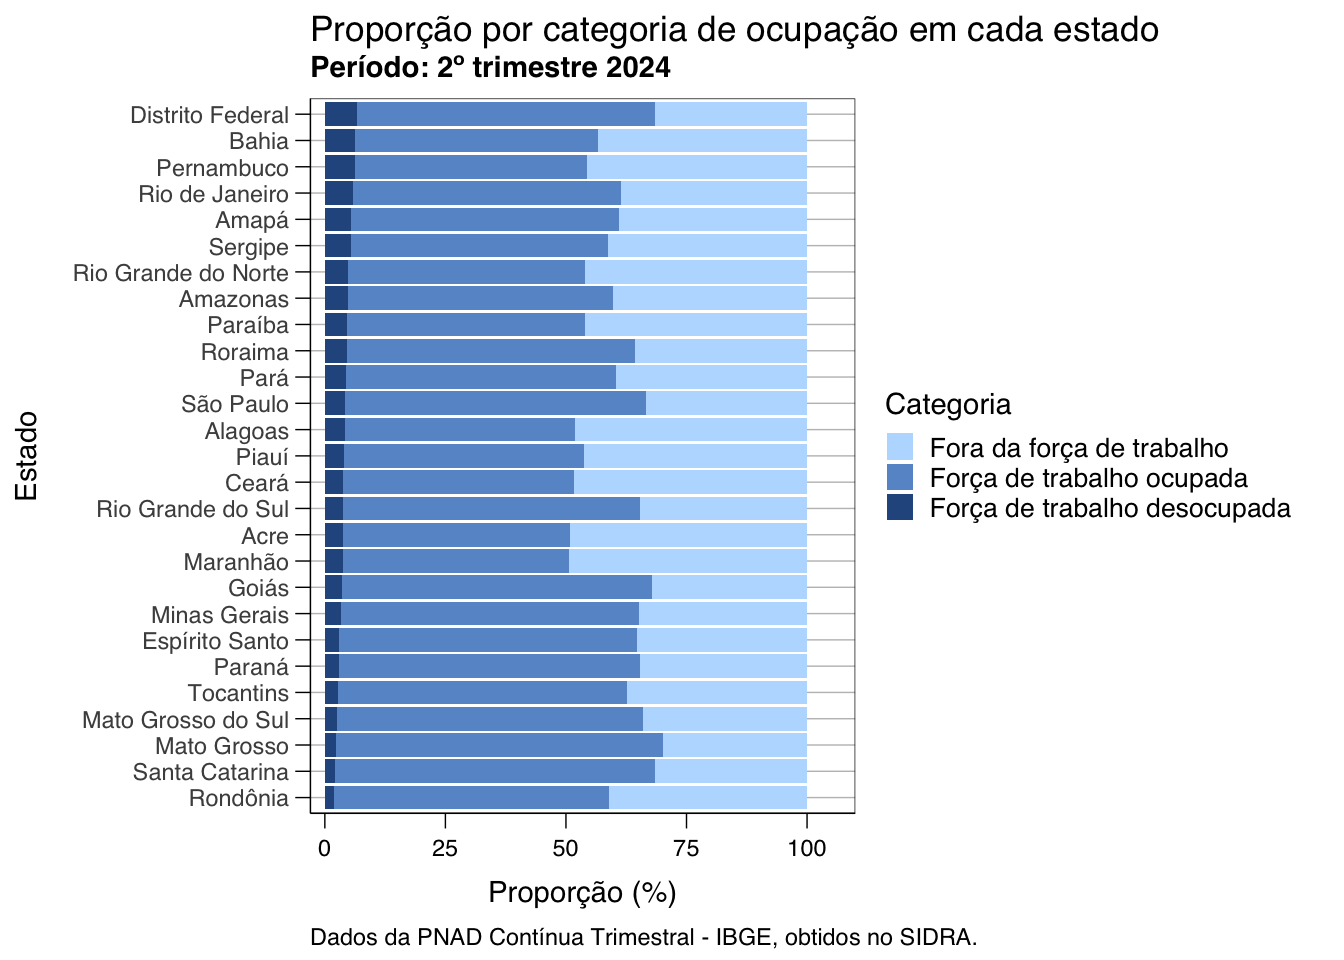
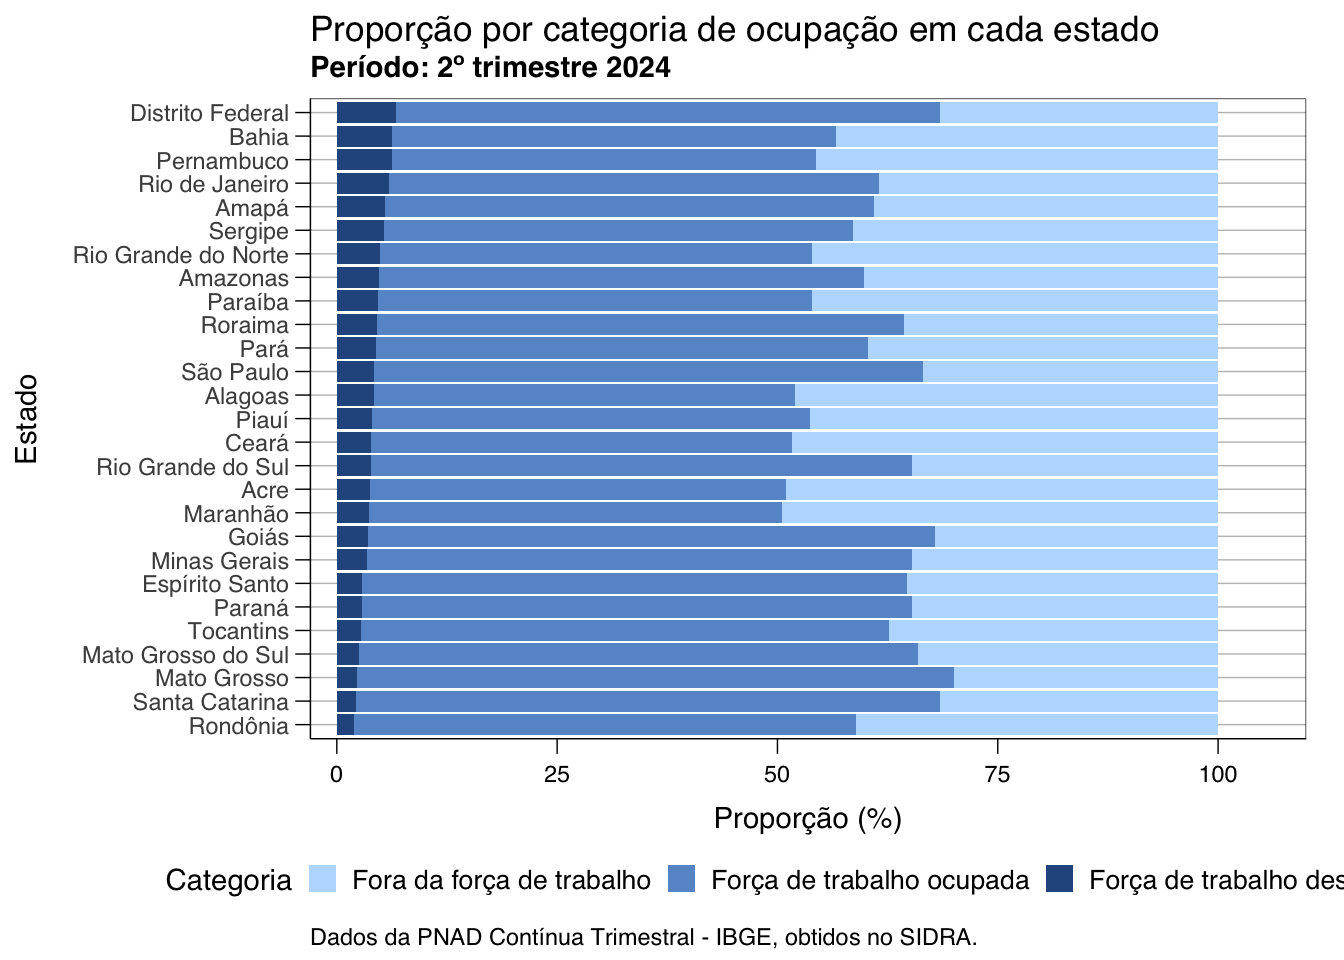
quarto render

diff --git a/docs/07_visualizacao_exemplo.html b/docs/07_visualizacao_exemplo.html
@@ -895,14 +895,14 @@ Expanda para fazer download da base de dados
 <p>Agora aproveitaremos o exemplo anterior para demonstrar o funcionamnto do <code>{ipeaplot}</code>. Vamos começar a modificar a figura, usando o <code>{ipeaplot}</code> para ajustar ao “padrão do Ipea”. Primeiro usamos a função <code>theme_ipea()</code> no lugar de <code>theme_minimal()</code>.</p>
 <div class="cell">
 <div class="sourceCode cell-code" id="annotated-cell-14"><pre class="sourceCode r code-annotation-code code-with-copy code-annotated"><code class="sourceCode r"><span id="annotated-cell-14-1"><a href="#annotated-cell-14-1" aria-hidden="true" tabindex="-1"></a>grafico_ipeaplot <span class="ot">&lt;-</span> grafico_proporcao <span class="sc">+</span></span>
-<button class="code-annotation-anchor" data-target-cell="annotated-cell-14" data-target-annotation="1">1</button><span id="annotated-cell-14-2" class="code-annotation-target"><a href="#annotated-cell-14-2" aria-hidden="true" tabindex="-1"></a>  <span class="fu">theme_ipea</span>()</span>
+<button class="code-annotation-anchor" data-target-cell="annotated-cell-14" data-target-annotation="1">1</button><span id="annotated-cell-14-2" class="code-annotation-target"><a href="#annotated-cell-14-2" aria-hidden="true" tabindex="-1"></a>  <span class="fu">theme_ipea</span>(<span class="at">legend.position =</span> <span class="st">"bottom"</span>)</span>
 <span id="annotated-cell-14-3"><a href="#annotated-cell-14-3" aria-hidden="true" tabindex="-1"></a></span>
 <span id="annotated-cell-14-4"><a href="#annotated-cell-14-4" aria-hidden="true" tabindex="-1"></a>grafico_ipeaplot</span><div class="code-annotation-gutter-bg"></div><div class="code-annotation-gutter"></div></code><button title="Copiar para a área de transferência" class="code-copy-button"><i class="bi"></i></button></pre></div>
 <div class="cell-annotation">
 <dl class="code-annotation-container-hidden code-annotation-container-grid">
 <dt data-target-cell="annotated-cell-14" data-target-annotation="1">1</dt>
 <dd>
-<span data-code-cell="annotated-cell-14" data-code-lines="2" data-code-annotation="1">Adotando o tema padrão do Ipea</span>
+<span data-code-cell="annotated-cell-14" data-code-lines="2" data-code-annotation="1">Adotando o tema padrão do Ipea, com legenda “embaixo” (bottom)</span>
 </dd>
 </dl>
 </div>
@@ -939,24 +939,32 @@ Expanda para fazer download da base de dados
 <p>Aí está, temos uma figura pronta para publicarmos nosso primeiro “Texto para Discussão” usando o R. Na verdade, nem tão pronta assim, pois o Ipea usa em títulos e legendas a família de fontes <em>Frutiger</em>. Como não é uma família com licença livre não podemos distribuir no <code>{ipeaplot}</code>. Porém, com o passo a seguir, o Editorial poderá, ao receber seu material para publicação, fazer os ajustes necessários na fonte dos títulos e legendas.</p>
 <div class="cell">
 <div class="sourceCode cell-code" id="annotated-cell-16"><pre class="sourceCode r code-annotation-code code-with-copy code-annotated"><code class="sourceCode r"><button class="code-annotation-anchor" data-target-cell="annotated-cell-16" data-target-annotation="1">1</button><span id="annotated-cell-16-1" class="code-annotation-target"><a href="#annotated-cell-16-1" aria-hidden="true" tabindex="-1"></a><span class="fu">save_eps</span>(grafico_ipeaplot,</span>
-<span id="annotated-cell-16-2"><a href="#annotated-cell-16-2" aria-hidden="true" tabindex="-1"></a>         <span class="at">file.name =</span> <span class="st">"graficos/grafico_ipeaplot.eps"</span>)</span>
-<span id="annotated-cell-16-3"><a href="#annotated-cell-16-3" aria-hidden="true" tabindex="-1"></a></span>
-<button class="code-annotation-anchor" data-target-cell="annotated-cell-16" data-target-annotation="2">2</button><span id="annotated-cell-16-4" class="code-annotation-target"><a href="#annotated-cell-16-4" aria-hidden="true" tabindex="-1"></a><span class="fu">save_pdf</span>(grafico_ipeaplot,</span>
-<span id="annotated-cell-16-5"><a href="#annotated-cell-16-5" aria-hidden="true" tabindex="-1"></a>         <span class="at">file.name =</span> <span class="st">"graficos/grafico_ipeaplot.pdf"</span>)</span><div class="code-annotation-gutter-bg"></div><div class="code-annotation-gutter"></div></code><button title="Copiar para a área de transferência" class="code-copy-button"><i class="bi"></i></button></pre></div>
+<span id="annotated-cell-16-2"><a href="#annotated-cell-16-2" aria-hidden="true" tabindex="-1"></a>         <span class="at">file.name =</span> <span class="st">"graficos/grafico_ipeaplot.eps"</span>,</span>
+<span id="annotated-cell-16-3"><a href="#annotated-cell-16-3" aria-hidden="true" tabindex="-1"></a>         <span class="at">width =</span> <span class="dv">10</span>,</span>
+<span id="annotated-cell-16-4"><a href="#annotated-cell-16-4" aria-hidden="true" tabindex="-1"></a>         <span class="at">height =</span> <span class="dv">8</span>,</span>
+<span id="annotated-cell-16-5"><a href="#annotated-cell-16-5" aria-hidden="true" tabindex="-1"></a>         <span class="at">dpi =</span> <span class="dv">300</span></span>
+<span id="annotated-cell-16-6"><a href="#annotated-cell-16-6" aria-hidden="true" tabindex="-1"></a>)</span>
+<span id="annotated-cell-16-7"><a href="#annotated-cell-16-7" aria-hidden="true" tabindex="-1"></a></span>
+<button class="code-annotation-anchor" data-target-cell="annotated-cell-16" data-target-annotation="2">2</button><span id="annotated-cell-16-8" class="code-annotation-target"><a href="#annotated-cell-16-8" aria-hidden="true" tabindex="-1"></a><span class="fu">save_pdf</span>(grafico_ipeaplot,</span>
+<span id="annotated-cell-16-9"><a href="#annotated-cell-16-9" aria-hidden="true" tabindex="-1"></a>         <span class="at">file.name =</span> <span class="st">"grafico_ipeaplot.pdf"</span>,</span>
+<span id="annotated-cell-16-10"><a href="#annotated-cell-16-10" aria-hidden="true" tabindex="-1"></a>         <span class="at">width =</span> <span class="dv">10</span>,</span>
+<span id="annotated-cell-16-11"><a href="#annotated-cell-16-11" aria-hidden="true" tabindex="-1"></a>         <span class="at">height =</span> <span class="dv">8</span>,</span>
+<span id="annotated-cell-16-12"><a href="#annotated-cell-16-12" aria-hidden="true" tabindex="-1"></a>         <span class="at">dpi =</span> <span class="dv">300</span></span>
+<span id="annotated-cell-16-13"><a href="#annotated-cell-16-13" aria-hidden="true" tabindex="-1"></a>)</span><div class="code-annotation-gutter-bg"></div><div class="code-annotation-gutter"></div></code><button title="Copiar para a área de transferência" class="code-copy-button"><i class="bi"></i></button></pre></div>
 <div class="cell-annotation">
 <dl class="code-annotation-container-hidden code-annotation-container-grid">
 <dt data-target-cell="annotated-cell-16" data-target-annotation="1">1</dt>
 <dd>
-<span data-code-cell="annotated-cell-16" data-code-lines="1,2" data-code-annotation="1">Salvando o gráfico em formato <code>.eps</code></span>
+<span data-code-cell="annotated-cell-16" data-code-lines="1,6" data-code-annotation="1">Salvando o gráfico em formato <code>.eps</code></span>
 </dd>
 <dt data-target-cell="annotated-cell-16" data-target-annotation="2">2</dt>
 <dd>
-<span data-code-cell="annotated-cell-16" data-code-lines="4,5" data-code-annotation="2">Salvando o gráfico em formato <code>.pdf</code></span>
+<span data-code-cell="annotated-cell-16" data-code-lines="8,13" data-code-annotation="2">Salvando o gráfico em formato <code>.pdf</code></span>
 </dd>
 </dl>
 </div>
 </div>
-<p>Por trás das cortinas, as duas funções acima são semelhantes à <code>ggsave()</code>, usada anteriormente nesta aula. Porém, os atributos passados garantem que os gráficos serão salvos em formatos “editáveis” (<code>.eps</code> ou <code>.pdf</code>) e com proporção e resolução recomendadas pelo Editorial do Ipea.</p>
+<p>Por trás das cortinas, as duas funções acima são semelhantes à <code>ggsave()</code>, usada anteriormente nesta aula. Porém, os atributos passados garantem que os gráficos serão salvos em formatos “editáveis” (<code>.eps</code> ou <code>.pdf</code>).</p>
 
 
 </section>
